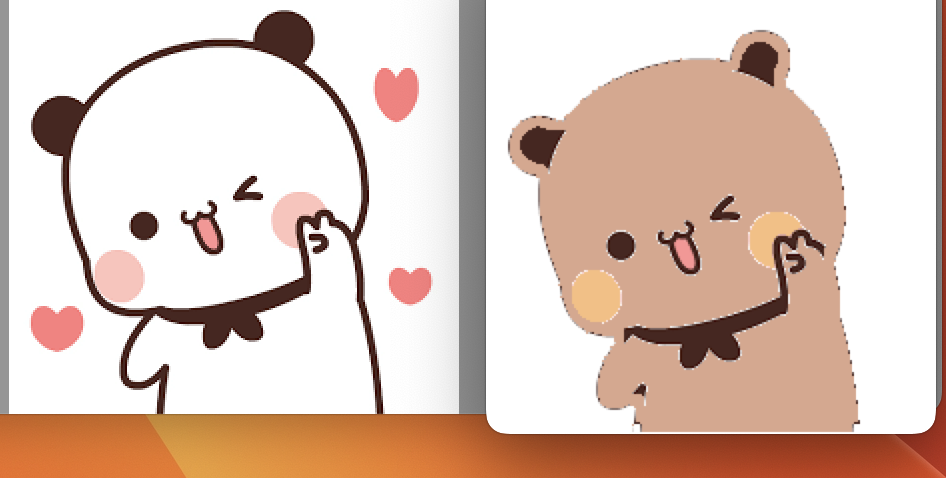
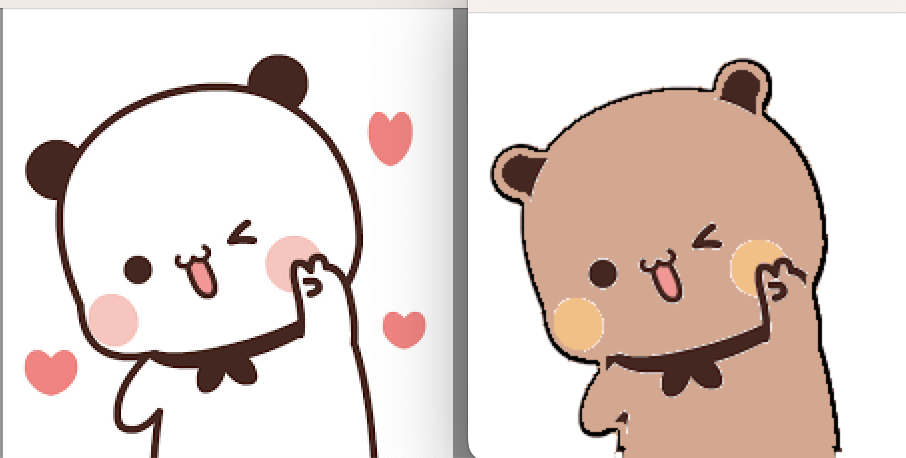
better

diff --git a/main.py b/main.py
@@ -111,14 +111,22 @@ for point in goodContours[0]:
     
     for wLayer in range(w - thickness, w + thickness):
         for hLayer in range(h - thickness, h + thickness):
-            if abs(wLayer - w) > 3 or abs(hLayer - h) > 3: 
-                containResult = cv2.pointPolygonTest(goodContours[0], (wLayer, hLayer), False)
-                
-                if containResult == 1:
-                    workImage[hLayer, wLayer] = Util.BUBUBODY
-                    earContour.append((hLayer, wLayer))
+            containResult = cv2.pointPolygonTest(goodContours[0], (wLayer, hLayer), False)
+            
+            if containResult == 1:
+                workImage[hLayer, wLayer] = Util.BUBUBODY
+                earContour.append((hLayer, wLayer))
     
-
+thickness2 = 2
+for point in goodContours[0]:
+    w, h = point
+    
+    for wLayer in range(w - thickness2, w + thickness2):
+        for hLayer in range(h - thickness2, h + thickness2):
+            containResult = cv2.pointPolygonTest(goodContours[0], (wLayer, hLayer), False)
+            
+            if containResult == 1:
+                workImage[hLayer, wLayer] = (0, 0, 0)
   
 hMin = inputHeight
 hMax = -1
